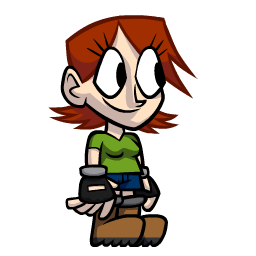
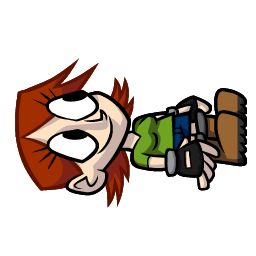
new img rock

diff --git a/practico3/TP3-Entrega/style.css b/practico3/TP3-Entrega/style.css
@@ -69,18 +69,18 @@
   animation: rock 3s infinite linear;
 }
 .rseg{
-  animation: rock 5s infinite linear;
+  animation: rock 7s infinite linear;
 
 }
 .rter{
-  animation: rock 7s infinite linear;
+  animation: rock 10s infinite linear;
 
 }
 #avatar {
   position : absolute;
   width:243px;
   height:253px;
-  top:75%;
+  top:70%;
   left:20%;
   /* background-image: url(images/spritestrip-.png); */
   /* animation: run .9s steps(6) forwards;  */
@@ -117,11 +117,11 @@
 } 
 
 @keyframes jump {
-  0%{   top: 800px;  
+  0%{   top: 63%;  
         }
   50%{top: 750px;}
   75%{top: 750px;}
-  100%{top: 800px;}
+  100%{top: 63%;}
 }
 
 @keyframes run {

diff --git a/practico3/TP3-Entrega/main.js b/practico3/TP3-Entrega/main.js
@@ -3,7 +3,7 @@ let rock = document.getElementById("rock");
 let score = document.getElementById("score");
 let tecla = false;
 let imgJump = 'url(images/jump-right.png)';
-let imgRun = 'url(images/spritestrip-.png)';
+let imgRun = 'url(images/avatarRun.png)';
 //38 arriba
 //40 abajo
 
